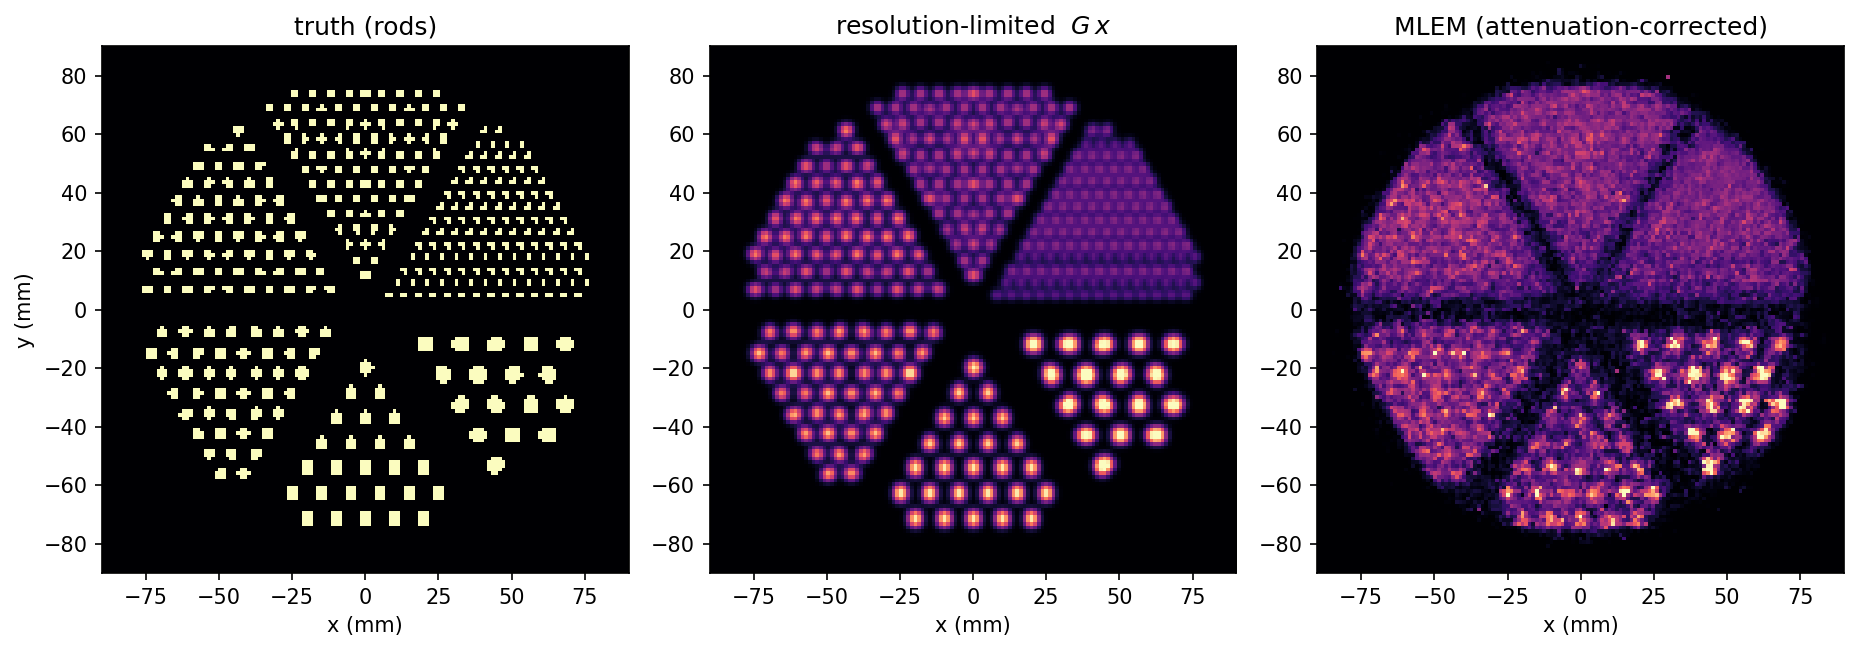
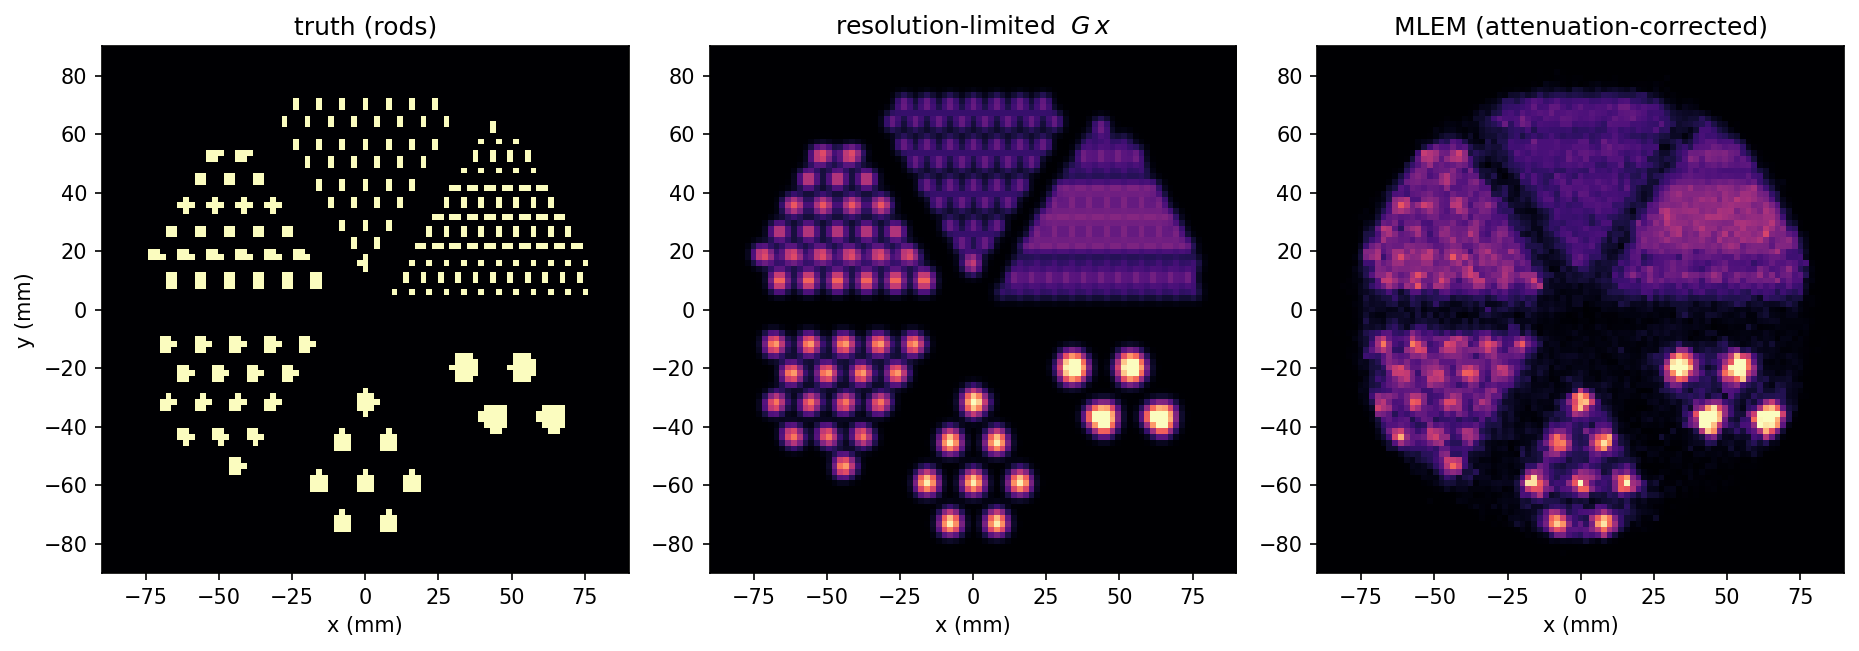
Resolution example: exaggerate to 5 mm, coarser grid, more counts
Tune the resolution demo so the limit is unmistakable and the reconstruction
tracks G*x cleanly: resolution 5 mm (CRYSP is 3.5 mm; tunable), 2 mm voxels
(~420k voxels, fewer than 1.25 mm so less per-voxel noise), rods {3,4,5,6,8,10}
mm to span the transition, 1e9 counts, 12 iterations. The 8-10 mm sectors
resolve, 3-4 mm merge. Update the document and figure to match, noting the 5 mm
is a deliberate exaggeration of the 3.5 mm intrinsic value.

diff --git a/tutorial/docs/tutorial_example_resolution.tex b/tutorial/docs/tutorial_example_resolution.tex
@@ -14,12 +14,14 @@
 
 \begin{abstract}
 A second worked example: a Derenzo rod phantom in a water cylinder on the
-continuous (CRYSP) scanner. We add the $3.5\,\mathrm{mm}$ detector resolution to
-the attenuation-corrected reconstruction of the previous example and watch the
-resolution limit appear directly --- the coarse rod sectors resolve into
-distinct dots while the fine ones merge. Resolution is injected at simulation
-time through the library operator $\Gop$; the reconstruction uses the plain
-projector. Code in \code{tutorial/examples/resolution/}.
+continuous (CRYSP) scanner. We add the detector resolution to the
+attenuation-corrected reconstruction of the previous example and watch the
+resolution limit appear directly --- the coarse rod sectors resolve into distinct
+dots while the fine ones merge. Resolution is injected at simulation time through
+the library operator $\Gop$; the reconstruction uses the plain projector. To make
+the effect unmistakable we exaggerate the resolution to $5\,\mathrm{mm}$ (CRYSP's
+intrinsic value is $3.5\,\mathrm{mm}$; it is a one-line change in the
+configuration). Code in \code{tutorial/examples/resolution/}.
 \end{abstract}
 
 \section{Overview}
@@ -49,14 +51,14 @@ The scanner is again the CRYSP continuous cylinder
 ($\varnothing\,77.4\,\mathrm{cm}$, AFOV $102.4\,\mathrm{cm}$). The phantom is a
 water cylinder of radius $80\,\mathrm{mm}$ --- the attenuating medium and the
 $\mu$-map --- containing six sectors of hot rods of diameters
-$\{2.5,3,3.5,4,5,6\}\,\mathrm{mm}$, centre-to-centre spacing twice the diameter.
-Because we must \emph{render} the small rods and the $3.5\,\mathrm{mm}$ blur, the
-grid is fine: $1.25\,\mathrm{mm}$ voxels (Part~I, The Image, the
-$\Delta\approx\tfrac13$--$\tfrac12\,\FWHM$ rule), $145\times145\times81$. Both
-phantom and grid come straight from the library:
+$\{3,4,5,6,8,10\}\,\mathrm{mm}$, centre-to-centre spacing twice the diameter. The
+grid is $2\,\mathrm{mm}$ isotropic, $91\times91\times51$, chosen by the
+$\Delta\approx\tfrac13$--$\tfrac12\,\FWHM$ rule of Part~I (The Image) for a
+$5\,\mathrm{mm}$ resolution and fine enough to render the rods. Both phantom and
+grid come straight from the library:
 \begin{lstlisting}
 x_true = derenzo(n, org, vs; radius = 80.0, length = 100.0,
-                 rod_diameters = [2.5,3,3.5,4,5,6], spacing = 2.0)
+                 rod_diameters = [3,4,5,6,8,10], spacing = 2.0)
 mumap  = uniform_cylinder(n, org, vs; radius = 80.0, length = 100.0,
                           value = 0.0096)   # water, mm^-1
 \end{lstlisting}
@@ -69,7 +71,7 @@ Projection), as before. The new ingredient is the resolution: we blur the
 activity with the library operator $\Gop$ (\code{gaussian\_blur}, a separable,
 self-adjoint Gaussian) and project the blurred image.
 \begin{lstlisting}
-x_blur = gaussian_blur(x_true, 3.5, vs)              # G x_true (FWHM = 3.5 mm)
+x_blur = gaussian_blur(x_true, 5.0, vs)              # G x_true (FWHM = 5 mm)
 a    = exp.(-joseph3d_fwd(xs, xe, mumap, org, vs))   # attenuation
 ybar = a .* joseph3d_fwd(xs, xe, x_blur, org, vs)    # a .* A*(G x_true)
 counts = [rand(rng, Poisson(lam)) for lam in scale .* ybar]
@@ -86,7 +88,7 @@ therefore converges towards $\Gop\,\xv$, the best the detector can deliver.
 sens  = sensitivity_image(xs, xe, n, org, vs; weights = a)
 model = ListmodePoissonModel(xs, xe, sens; img_origin = org, voxsize = vs,
                              counts = counts, mult = a)
-x_rec = mlem(model, x0; niter = 20)
+x_rec = mlem(model, x0; niter = 12)
 \end{lstlisting}
 
 \section{Results}
@@ -94,12 +96,13 @@ x_rec = mlem(model, x0; niter = 20)
 
 Figure~\ref{fig:ex-res} shows the central transverse slice. The
 resolution-limited image $\Gop\,\xv$ (centre) is the target: the
-$4$--$6\,\mathrm{mm}$ sectors remain distinct rods, while the
-$2.5$--$3\,\mathrm{mm}$ sectors --- below the $3.5\,\mathrm{mm}$ resolution ---
-merge into a smear. The reconstruction (right) reproduces exactly this: coarse
-rods resolved, fine rods merged. One \emph{sees} the resolution limit, sector by
-sector. The residual graininess is statistical (MLEM noise), controlled by early
-stopping as in the previous example (Part~I, Acceleration and Noise).
+$8$--$10\,\mathrm{mm}$ sectors are clearly separated rods, the
+$5$--$6\,\mathrm{mm}$ sectors are still resolved, and the $3$--$4\,\mathrm{mm}$
+sectors --- below the $5\,\mathrm{mm}$ resolution --- merge into a smear. The
+reconstruction (right) reproduces exactly this transition: one \emph{sees} the
+resolution limit, sector by sector. With $10^9$ counts and early stopping
+($12$ iterations, Part~I, Acceleration and Noise) the residual MLEM noise is
+modest and the reconstruction tracks $\Gop\,\xv$ closely.
 
 \begin{figure}[t]
   \centering
@@ -107,8 +110,8 @@ stopping as in the previous example (Part~I, Acceleration and Noise).
   \caption{Derenzo phantom, central slice. Left: the sharp truth. Centre: the
     resolution-limited image $\Gop\,\xv$ that the detector can recover. Right:
     the attenuation-corrected MLEM reconstruction, which tracks $\Gop\,\xv$ ---
-    the $4$--$6\,\mathrm{mm}$ rods resolve, the $2.5$--$3\,\mathrm{mm}$ rods
-    merge at the $3.5\,\mathrm{mm}$ limit.}
+    the $8$--$10\,\mathrm{mm}$ rods resolve, the $3$--$4\,\mathrm{mm}$ rods merge
+    at the (here $5\,\mathrm{mm}$) resolution limit.}
   \label{fig:ex-res}
 \end{figure}
 
@@ -125,8 +128,8 @@ julia -t auto --project=tutorial/examples/resolution \
   tutorial/examples/resolution/run.jl
 python3 tutorial/examples/resolution/resolution_plot.py
 \end{lstlisting}
-Change the rod diameters, the resolution \code{fwhm}, or the voxel size in the
-TOML to explore the limit.
+Set the resolution \code{fwhm} back to $3.5\,\mathrm{mm}$, or change the rod
+diameters and the voxel size in the TOML, to explore the limit.
 
 \section{What this leaves out}
 \label{sec:ex-res:next}